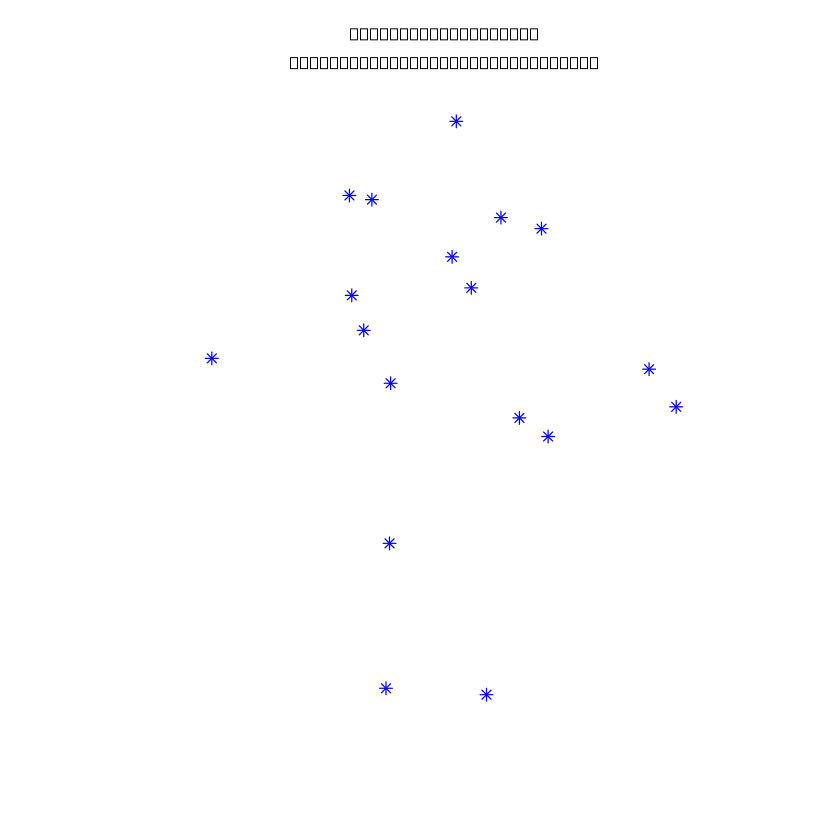
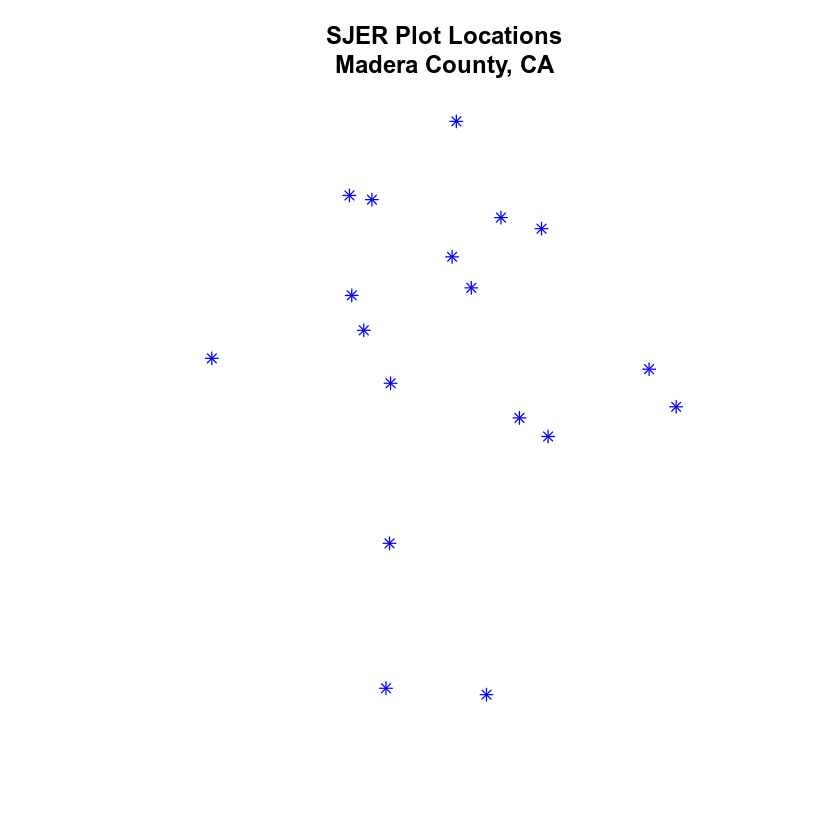
Rebuild Week 04 lesson 1 for R course (#96) README.md blog changed_files.txt changed_image_files.txt changed_notebooks.txt changed_rmd_files.txt courses current_branch.txt environment.yml images keys scripts tutorials workshops Small changes to prompt build of week 4 landing page R course
README.md blog changed_files.txt changed_image_files.txt changed_notebooks.txt changed_rmd_files.txt courses current_branch.txt environment.yml images keys scripts tutorials workshops Add explicit dsn to readogr in week 4 landing page R course
 
 README.md blog changed_files.txt changed_image_files.txt changed_notebooks.txt changed_rmd_files.txt courses current_branch.txt environment.yml images keys scripts tutorials workshops Make sjer_roads last readogr to isolate as hanging in week 4 landing page R course
 
 README.md blog changed_files.txt changed_image_files.txt changed_notebooks.txt changed_rmd_files.txt courses current_branch.txt environment.yml images keys scripts tutorials workshops Comment out unused code in import-point-line code chunk in week 4 landing page R course
 
 README.md blog changed_files.txt changed_image_files.txt changed_notebooks.txt changed_rmd_files.txt courses current_branch.txt environment.yml images keys scripts tutorials workshops Update plot titles to single line in week 4 landing page R course
 
 README.md blog changed_files.txt changed_image_files.txt changed_notebooks.txt changed_rmd_files.txt courses current_branch.txt environment.yml images keys scripts tutorials workshops Update plot title code on week 4 lesson 1 R course
[…]

Changed region(s): [[0.3405, 0.031, 0.7119, 0.0929]]

diff --git a/_posts/courses/earth-analytics-r/04-vector-data-gis-r/in-class/2017-02-15-spatial01-intro-vector-data-R.md b/_posts/courses/earth-analytics-r/04-vector-data-gis-r/in-class/2017-02-15-spatial01-intro-vector-data-R.md
@@ -4,7 +4,7 @@ title: "GIS in R: Intro to Vector Format Spatial Data - Points, Lines and Polygo
 excerpt: "This lesson introduces what vector data are and how to open vector data stored in
 shapefile format in R. "
 authors: ['Leah Wasser']
-modified: '2019-07-11'
+modified: '2019-07-25'
 category: [courses]
 class-lesson: ['class-intro-spatial-r']
 permalink: /courses/earth-analytics/spatial-data-r/intro-vector-data-r/
@@ -32,123 +32,6 @@ redirect_from:
 
 
 
-
-```r
-knitr::opts_chunk$get("root.dir")
-## [1] "~/earth-analytics"
-print(getwd())
-## [1] "/root/earth-analytics"
-list.files(getwd(), recursive = T)
-##   [1] "data/week-04.zip"                                                                   
-##   [2] "data/week-04/california/madera-county-roads/metadata.html"                          
-##   [3] "data/week-04/california/madera-county-roads/tl_2010_05143_roads.shp.xml"            
-##   [4] "data/week-04/california/madera-county-roads/tl_2013_06039_roads.dbf"                
-##   [5] "data/week-04/california/madera-county-roads/tl_2013_06039_roads.prj"                
-##   [6] "data/week-04/california/madera-county-roads/tl_2013_06039_roads.shp"                
-##   [7] "data/week-04/california/madera-county-roads/tl_2013_06039_roads.shp.xml"            
-##   [8] "data/week-04/california/madera-county-roads/tl_2013_06039_roads.shx"                
-##   [9] "data/week-04/california/SJER/2013/insitu/veg_chemistry/D17_2013_SJER_foliarChem.csv"
-##  [10] "data/week-04/california/SJER/2013/insitu/veg_metadata_desc_DataInstitute2016.csv"   
-##  [11] "data/week-04/california/SJER/2013/insitu/veg_structure/D17_2013_SJER_vegStr.csv"    
-##  [12] "data/week-04/california/SJER/2013/insitu/veg_structure/sjer_stems.dbf"              
-##  [13] "data/week-04/california/SJER/2013/insitu/veg_structure/sjer_stems.prj"              
-##  [14] "data/week-04/california/SJER/2013/insitu/veg_structure/sjer_stems.qpj"              
-##  [15] "data/week-04/california/SJER/2013/insitu/veg_structure/sjer_stems.shp"              
-##  [16] "data/week-04/california/SJER/2013/insitu/veg_structure/sjer_stems.shx"              
-##  [17] "data/week-04/california/SJER/2013/lidar/SJER_lidarAspect.tif"                       
-##  [18] "data/week-04/california/SJER/2013/lidar/SJER_lidarCHM.tif"                          
-##  [19] "data/week-04/california/SJER/2013/lidar/SJER_lidarDSM.tif"                          
-##  [20] "data/week-04/california/SJER/2013/lidar/SJER_lidarDTM.tif"                          
-##  [21] "data/week-04/california/SJER/2013/lidar/SJER_lidarSlope.tif"                        
-##  [22] "data/week-04/california/SJER/2013/spectrometer/veg_index/SJER_EVI.tif"              
-##  [23] "data/week-04/california/SJER/2013/spectrometer/veg_index/SJER_NDVI.tif"             
-##  [24] "data/week-04/california/SJER/vector_data/SJER_crop.dbf"                             
-##  [25] "data/week-04/california/SJER/vector_data/SJER_crop.prj"                             
-##  [26] "data/week-04/california/SJER/vector_data/SJER_crop.qpj"                             
-##  [27] "data/week-04/california/SJER/vector_data/SJER_crop.shp"                             
-##  [28] "data/week-04/california/SJER/vector_data/SJER_crop.shx"                             
-##  [29] "data/week-04/california/SJER/vector_data/SJER_plot_centroids.dbf"                   
-##  [30] "data/week-04/california/SJER/vector_data/SJER_plot_centroids.prj"                   
-##  [31] "data/week-04/california/SJER/vector_data/SJER_plot_centroids.qpj"                   
-##  [32] "data/week-04/california/SJER/vector_data/SJER_plot_centroids.shp"                   
-##  [33] "data/week-04/california/SJER/vector_data/SJER_plot_centroids.shx"                   
-##  [34] "data/week-04/global/ne_110m_graticules_all/ne_110m_graticules_1.dbf"                
-##  [35] "data/week-04/global/ne_110m_graticules_all/ne_110m_graticules_1.prj"                
-##  [36] "data/week-04/global/ne_110m_graticules_all/ne_110m_graticules_1.README.html"        
-##  [37] "data/week-04/global/ne_110m_graticules_all/ne_110m_graticules_1.shp"                
-##  [38] "data/week-04/global/ne_110m_graticules_all/ne_110m_graticules_1.shx"                
-##  [39] "data/week-04/global/ne_110m_graticules_all/ne_110m_graticules_1.VERSION.txt"        
-##  [40] "data/week-04/global/ne_110m_graticules_all/ne_110m_graticules_10.dbf"               
-##  [41] "data/week-04/global/ne_110m_graticules_all/ne_110m_graticules_10.prj"               
-##  [42] "data/week-04/global/ne_110m_graticules_all/ne_110m_graticules_10.README.html"       
-##  [43] "data/week-04/global/ne_110m_graticules_all/ne_110m_graticules_10.shp"               
-##  [44] "data/week-04/global/ne_110m_graticules_all/ne_110m_graticules_10.shx"               
-##  [45] "data/week-04/global/ne_110m_graticules_all/ne_110m_graticules_10.VERSION.txt"       
-##  [46] "data/week-04/global/ne_110m_graticules_all/ne_110m_graticules_15.dbf"               
-##  [47] "data/week-04/global/ne_110m_graticules_all/ne_110m_graticules_15.prj"               
-##  [48] "data/week-04/global/ne_110m_graticules_all/ne_110m_graticules_15.README.html"       
-##  [49] "data/week-04/global/ne_110m_graticules_all/ne_110m_graticules_15.shp"               
-##  [50] "data/week-04/global/ne_110m_graticules_all/ne_110m_graticules_15.shx"               
-##  [51] "data/week-04/global/ne_110m_graticules_all/ne_110m_graticules_15.VERSION.txt"       
-##  [52] "data/week-04/global/ne_110m_graticules_all/ne_110m_graticules_20.dbf"               
-##  [53] "data/week-04/global/ne_110m_graticules_all/ne_110m_graticules_20.prj"               
-##  [54] "data/week-04/global/ne_110m_graticules_all/ne_110m_graticules_20.README.html"       
-##  [55] "data/week-04/global/ne_110m_graticules_all/ne_110m_graticules_20.shp"               
-##  [56] "data/week-04/global/ne_110m_graticules_all/ne_110m_graticules_20.shx"               
-##  [57] "data/week-04/global/ne_110m_graticules_all/ne_110m_graticules_20.VERSION.txt"       
-##  [58] "data/week-04/global/ne_110m_graticules_all/ne_110m_graticules_30.dbf"               
-##  [59] "data/week-04/global/ne_110m_graticules_all/ne_110m_graticules_30.prj"               
-##  [60] "data/week-04/global/ne_110m_graticules_all/ne_110m_graticules_30.README.html"       
-##  [61] "data/week-04/global/ne_110m_graticules_all/ne_110m_graticules_30.shp"               
-##  [62] "data/week-04/global/ne_110m_graticules_all/ne_110m_graticules_30.shx"               
-##  [63] "data/week-04/global/ne_110m_graticules_all/ne_110m_graticules_30.VERSION.txt"       
-##  [64] "data/week-04/global/ne_110m_graticules_all/ne_110m_graticules_5.dbf"                
-##  [65] "data/week-04/global/ne_110m_graticules_all/ne_110m_graticules_5.prj"                
-##  [66] "data/week-04/global/ne_110m_graticules_all/ne_110m_graticules_5.README.html"        
-##  [67] "data/week-04/global/ne_110m_graticules_all/ne_110m_graticules_5.shp"                
-##  [68] "data/week-04/global/ne_110m_graticules_all/ne_110m_graticules_5.shx"                
-##  [69] "data/week-04/global/ne_110m_graticules_all/ne_110m_graticules_5.VERSION.txt"        
-##  [70] "data/week-04/global/ne_110m_graticules_all/ne_110m_wgs84_bounding_box.dbf"          
-##  [71] "data/week-04/global/ne_110m_graticules_all/ne_110m_wgs84_bounding_box.prj"          
-##  [72] "data/week-04/global/ne_110m_graticules_all/ne_110m_wgs84_bounding_box.README.html"  
-##  [73] "data/week-04/global/ne_110m_graticules_all/ne_110m_wgs84_bounding_box.shp"          
-##  [74] "data/week-04/global/ne_110m_graticules_all/ne_110m_wgs84_bounding_box.shx"          
-##  [75] "data/week-04/global/ne_110m_graticules_all/ne_110m_wgs84_bounding_box.VERSION.txt"  
-##  [76] "data/week-04/global/ne_110m_land/ne_110m_land.dbf"                                  
-##  [77] "data/week-04/global/ne_110m_land/ne_110m_land.prj"                                  
-##  [78] "data/week-04/global/ne_110m_land/ne_110m_land.README.html"                          
-##  [79] "data/week-04/global/ne_110m_land/ne_110m_land.shp"                                  
-##  [80] "data/week-04/global/ne_110m_land/ne_110m_land.shx"                                  
-##  [81] "data/week-04/global/ne_110m_land/ne_110m_land.VERSION.txt"                          
-##  [82] "data/week-04/global/readme.txt"                                                     
-##  [83] "data/week-04/README"                                                                
-##  [84] "data/week-04/usa-boundary-layers/Boundary-US-State-Mass.cpg"                        
-##  [85] "data/week-04/usa-boundary-layers/Boundary-US-State-Mass.dbf"                        
-##  [86] "data/week-04/usa-boundary-layers/Boundary-US-State-Mass.prj"                        
-##  [87] "data/week-04/usa-boundary-layers/Boundary-US-State-Mass.qpj"                        
-##  [88] "data/week-04/usa-boundary-layers/Boundary-US-State-Mass.shp"                        
-##  [89] "data/week-04/usa-boundary-layers/Boundary-US-State-Mass.shx"                        
-##  [90] "data/week-04/usa-boundary-layers/Boundary-US-State-NEast.cpg"                       
-##  [91] "data/week-04/usa-boundary-layers/Boundary-US-State-NEast.dbf"                       
-##  [92] "data/week-04/usa-boundary-layers/Boundary-US-State-NEast.prj"                       
-##  [93] "data/week-04/usa-boundary-layers/Boundary-US-State-NEast.qpj"                       
-##  [94] "data/week-04/usa-boundary-layers/Boundary-US-State-NEast.shp"                       
-##  [95] "data/week-04/usa-boundary-layers/Boundary-US-State-NEast.shx"                       
-##  [96] "data/week-04/usa-boundary-layers/US-Boundary-Dissolved-States.cpg"                  
-##  [97] "data/week-04/usa-boundary-layers/US-Boundary-Dissolved-States.dbf"                  
-##  [98] "data/week-04/usa-boundary-layers/US-Boundary-Dissolved-States.prj"                  
-##  [99] "data/week-04/usa-boundary-layers/US-Boundary-Dissolved-States.qpj"                  
-## [100] "data/week-04/usa-boundary-layers/US-Boundary-Dissolved-States.shp"                  
-## [101] "data/week-04/usa-boundary-layers/US-Boundary-Dissolved-States.shx"                  
-## [102] "data/week-04/usa-boundary-layers/US-State-Boundaries-Census-2014.cpg"               
-## [103] "data/week-04/usa-boundary-layers/US-State-Boundaries-Census-2014.dbf"               
-## [104] "data/week-04/usa-boundary-layers/US-State-Boundaries-Census-2014.prj"               
-## [105] "data/week-04/usa-boundary-layers/US-State-Boundaries-Census-2014.qpj"               
-## [106] "data/week-04/usa-boundary-layers/US-State-Boundaries-Census-2014.shp"               
-## [107] "data/week-04/usa-boundary-layers/US-State-Boundaries-Census-2014.shp.xml"           
-## [108] "data/week-04/usa-boundary-layers/US-State-Boundaries-Census-2014.shx"
-```
-
 <div class='notice--success' markdown="1">
 
 ## <i class="fa fa-graduation-cap" aria-hidden="true"></i> Learning Objectives
@@ -157,7 +40,7 @@ After completing this tutorial, you will be able to:
 
 * Describe the characteristics of 3 key vector data structures: points, lines and polygons.
 * Open a shapefile in R using `readOGR()`.
-* View the metadata of a vector spatial layer in R including CRS
+* View the metadata of a vector spatial layer in R including CRS.
 * Access the tabular (`data.frame`) attributes of a vector spatial layer in `R`.
 
 ## <i class="fa fa-check-square-o fa-2" aria-hidden="true"></i> What You Need
@@ -171,7 +54,7 @@ You will need a computer with internet access to complete this lesson and the da
 ## About Vector Data
 Vector data are composed of discrete geometric locations (x,y values) known as
 **vertices** that define the "shape" of the spatial object. The organization
-of the vertices, determines the type of vector that you are working
+of the vertices determines the type of vector that you are working
 with: point, line or polygon.
 
 <figure>
@@ -425,7 +308,7 @@ Next, let's visualize the data in your `R` `spatialpointsdataframe` object using
 # 'col' sets point symbol color
 plot(sjer_plot_locations, col = "blue",
      pch = 8)
-title("SJER Plot Locations\nMadera County, CA TRIGGER BUILD")
+title("SJER Plot Locations\nMadera County, CA")
 ```
 
 <img src="{{ site.url }}/images/courses/earth-analytics-r/04-vector-data-gis-r/in-class/plot-shapefile-1.png" title="SJER plot locations." alt="SJER plot locations." width="90%" />
@@ -460,8 +343,7 @@ on top of each other in your plot.
 
 ```r
 # Plot multiple shapefiles
-plot(sjer_crop_extent, col = "lightgreen")
-title("NEON Harvard Forest\nField Site")
+plot(sjer_crop_extent, col = "lightgreen", main ="NEON SJER Field Site")
 
 # Use the pch element to adjust the symbology of the points
 plot(sjer_plot_locations,
